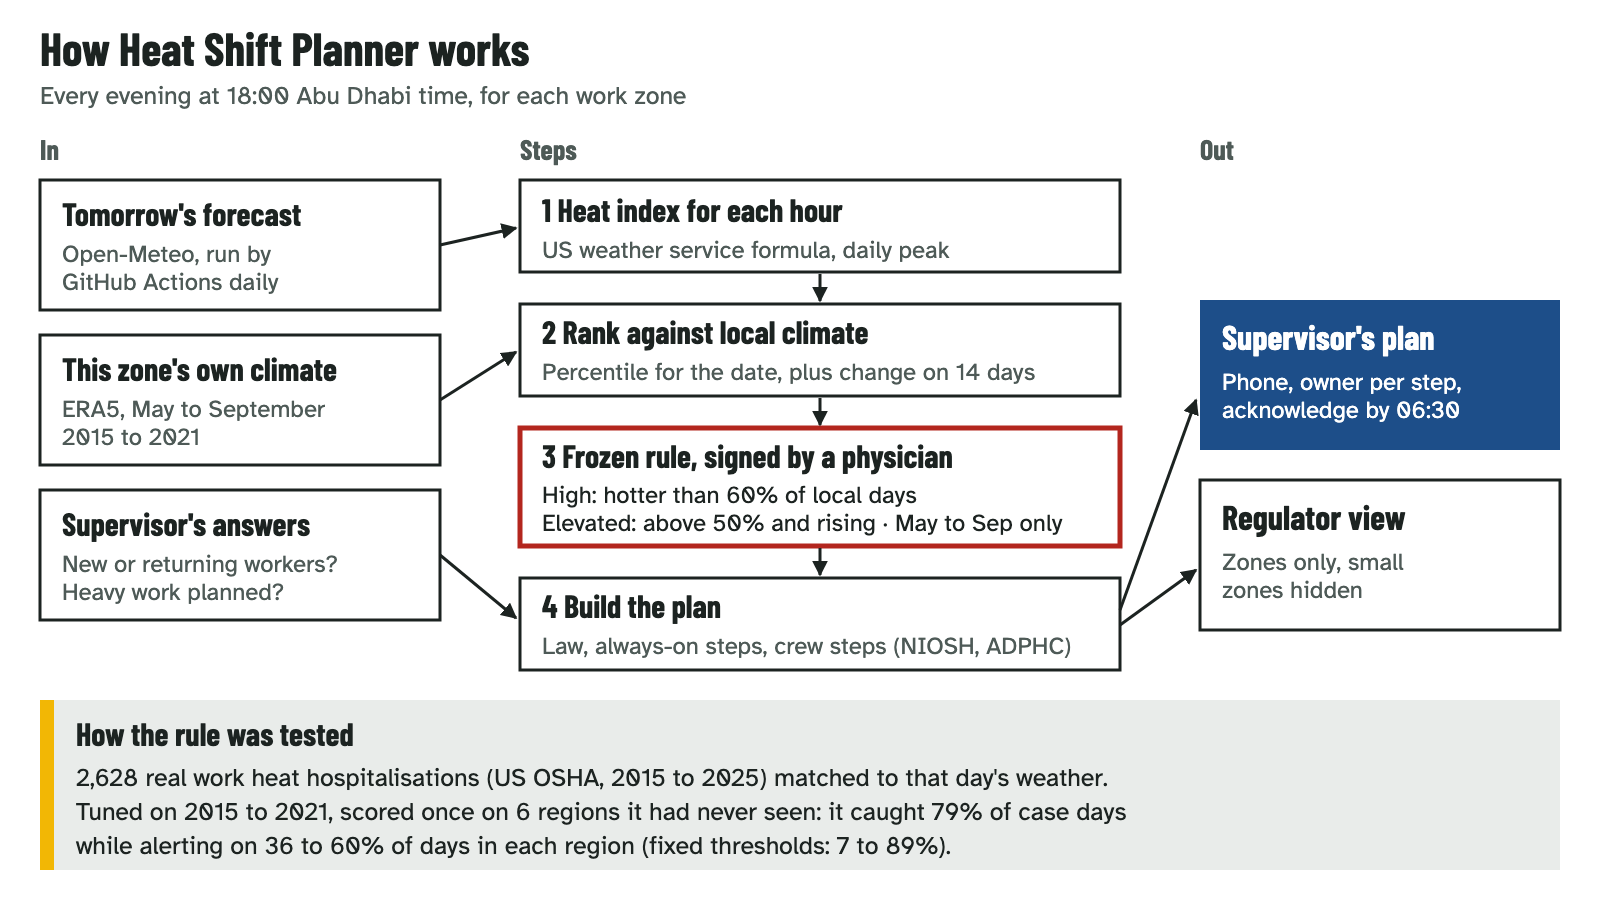
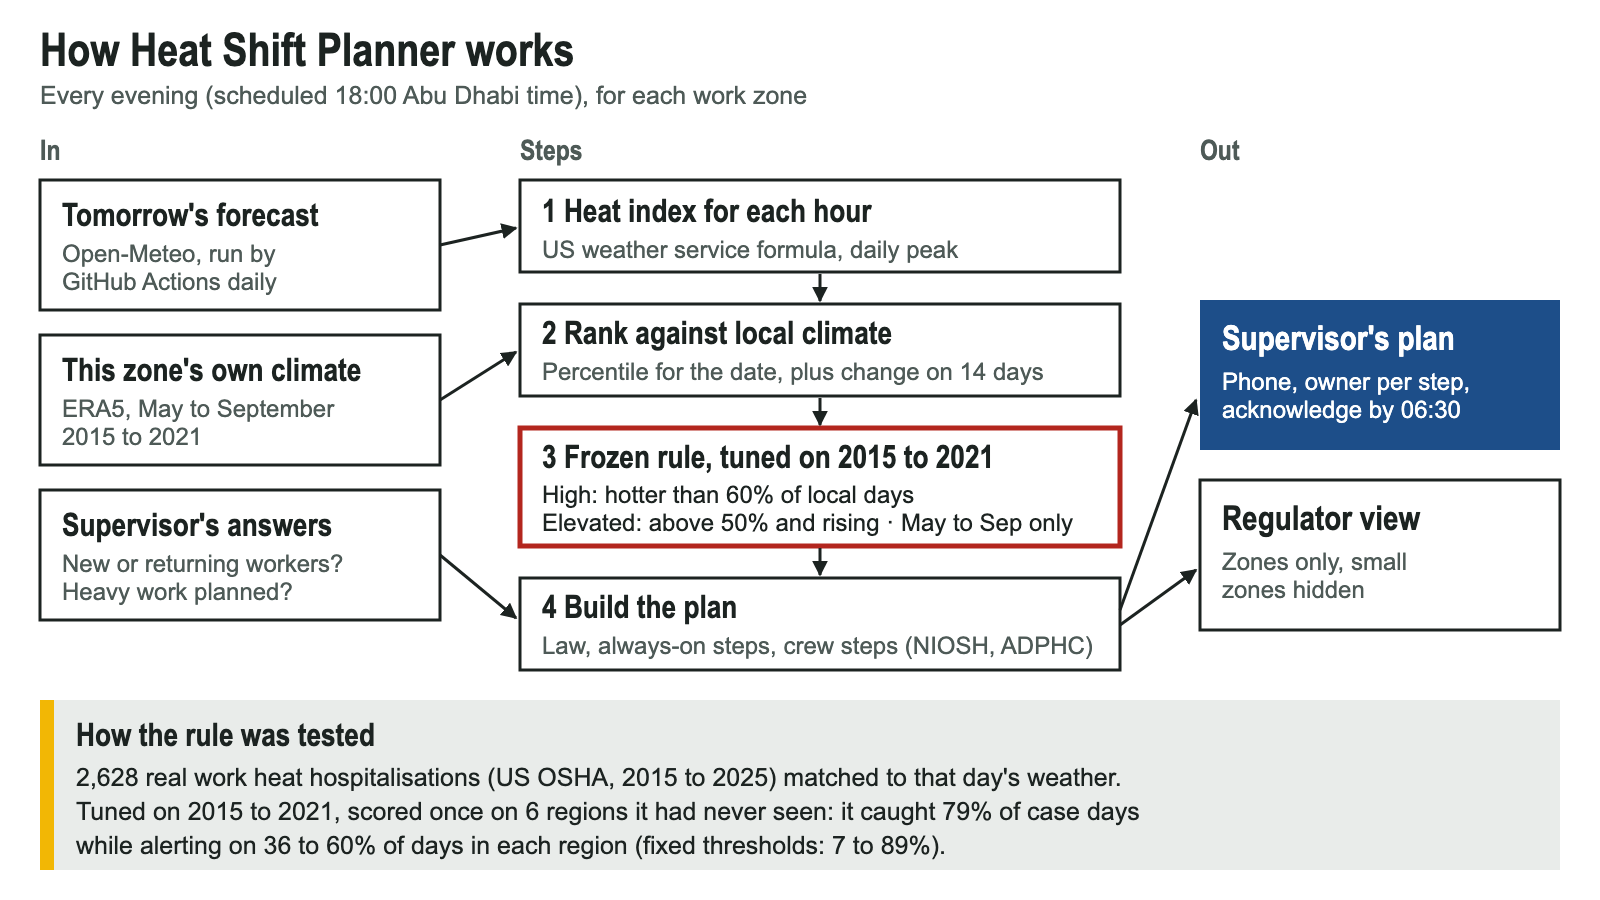
docs: diagram claims audit (no 'signed by a physician', scheduled not guaranteed 18:00), re-rendered PNGs, merged duplicate notes

diff --git a/docs/stress_round.md b/docs/stress_round.md
@@ -28,9 +28,5 @@ Still to run on the live URL: 10 parallel sessions, cold load on a phone over 4G
 | Cost per visitor | none: visitors load static files; only the daily job calls the weather API |
 Not checked here: a real phone over 4G (the browser pane disconnected). Ahmed to open the link on his phone.
 
-## Live URL (7 Nov 2026, https://drahmed7887.github.io/hack-future-health/)
-- Deployed by `.github/workflows/deploy-pages.yml` (site files only: no tests, raw data or reference climatology). Code repo stays private.
-- No login: `curl` without credentials returns 200 for every file; tests path returns 404.
-- Total payload about 134 kB; each file 0.19–0.30 s from Valencia. 20 parallel cold loads of the largest file: 20 × 200, all under 0.2 s.
-- Judge path in a fresh browser: site → replay hottest day (High) → crew yes/yes → 5-step plan → acknowledge → evidence (79 %, 82 %, 25 vs 82, 84 %). 0 console errors.
-- Live day shows "Today" after midnight Abu Dhabi time until the 18:00 refresh (resolver behaviour, as designed).
+| Second check (21:25, fresh browser) | judge path site → replay hottest day (High) → crew yes/yes → 5-step plan → acknowledge → evidence (79 %, 82 %, 25 vs 82, 84 %); 0 console errors; total payload about 134 kB |
+| Scheduled refresh | the 14:00 UTC job ran at 18:32 UTC (GitHub delays scheduled runs); the stale guard covers missed or late runs |

diff --git a/docs/decisions.md b/docs/decisions.md
@@ -16,4 +16,4 @@
 - **7 Nov 2026, G2:** Ahmed approved the user flow and screens (phone + laptop screenshots of the local build, commit 4238c28).
 - **7 Nov 2026, G3 review (code-reviewer agent):** 0 critical, 3 high, 8 medium, 6 low. Fixed: stale/date/season resolver used by every live view incl. regulator; unknown temperature never reassures; legal layer on fallback pages; wording of the workplace result, tiers and 80 °F figure; deployment now uses the tested in-season percentile definition; NaN guard; null button. Disclosed: missing-input reruns' baseline caveat. Day-ahead rerun for R4 with a real-time baseline follows.
 - **7 Nov 2026:** Ahmed approved publishing. Live on GitHub Pages (repo stays private until G5): https://drahmed7887.github.io/hack-future-health/. Workflow diagram added (docs/workflow.svg/.png, 4x5).
-- **7 Nov 2026:** Ahmed approved publishing. Live on GitHub Pages: https://drahmed7887.github.io/hack-future-health/ (repo private).
+- **7 Nov 2026:** diagram claims audit: "signed by a physician" changed to "tuned on 2015 to 2021" (Ahmed signed S1–S6 and chose to test a relative rule, not the tuned cut-offs); "every evening at 18:00" changed to "scheduled 18:00" (GitHub delayed the first run by 4.5 h). Duplicate docs/workflow.svg removed (source: docs/diagram/).

diff --git a/README.md b/README.md
@@ -106,8 +106,9 @@ uv run python scripts/abu_dhabi_tiers.py && uv run python scripts/build_web_data
 python3 -m http.server 8765 --directory web
 ```
 
-The OSHA file goes in `data/raw/osha_sir/` (download from osha.gov/severe-injury-reports). The live forecast refreshes daily at
-18:00 Abu Dhabi time (`.github/workflows/refresh-live.yml`).
+The OSHA file goes in `data/raw/osha_sir/` (download from osha.gov/severe-injury-reports). The live forecast refresh is scheduled
+daily at 18:00 Abu Dhabi time (`.github/workflows/refresh-live.yml`); GitHub can delay scheduled runs by hours, and the app
+shows "Not enough data" if the forecast is out of date.
 
 ## Repository map
 
